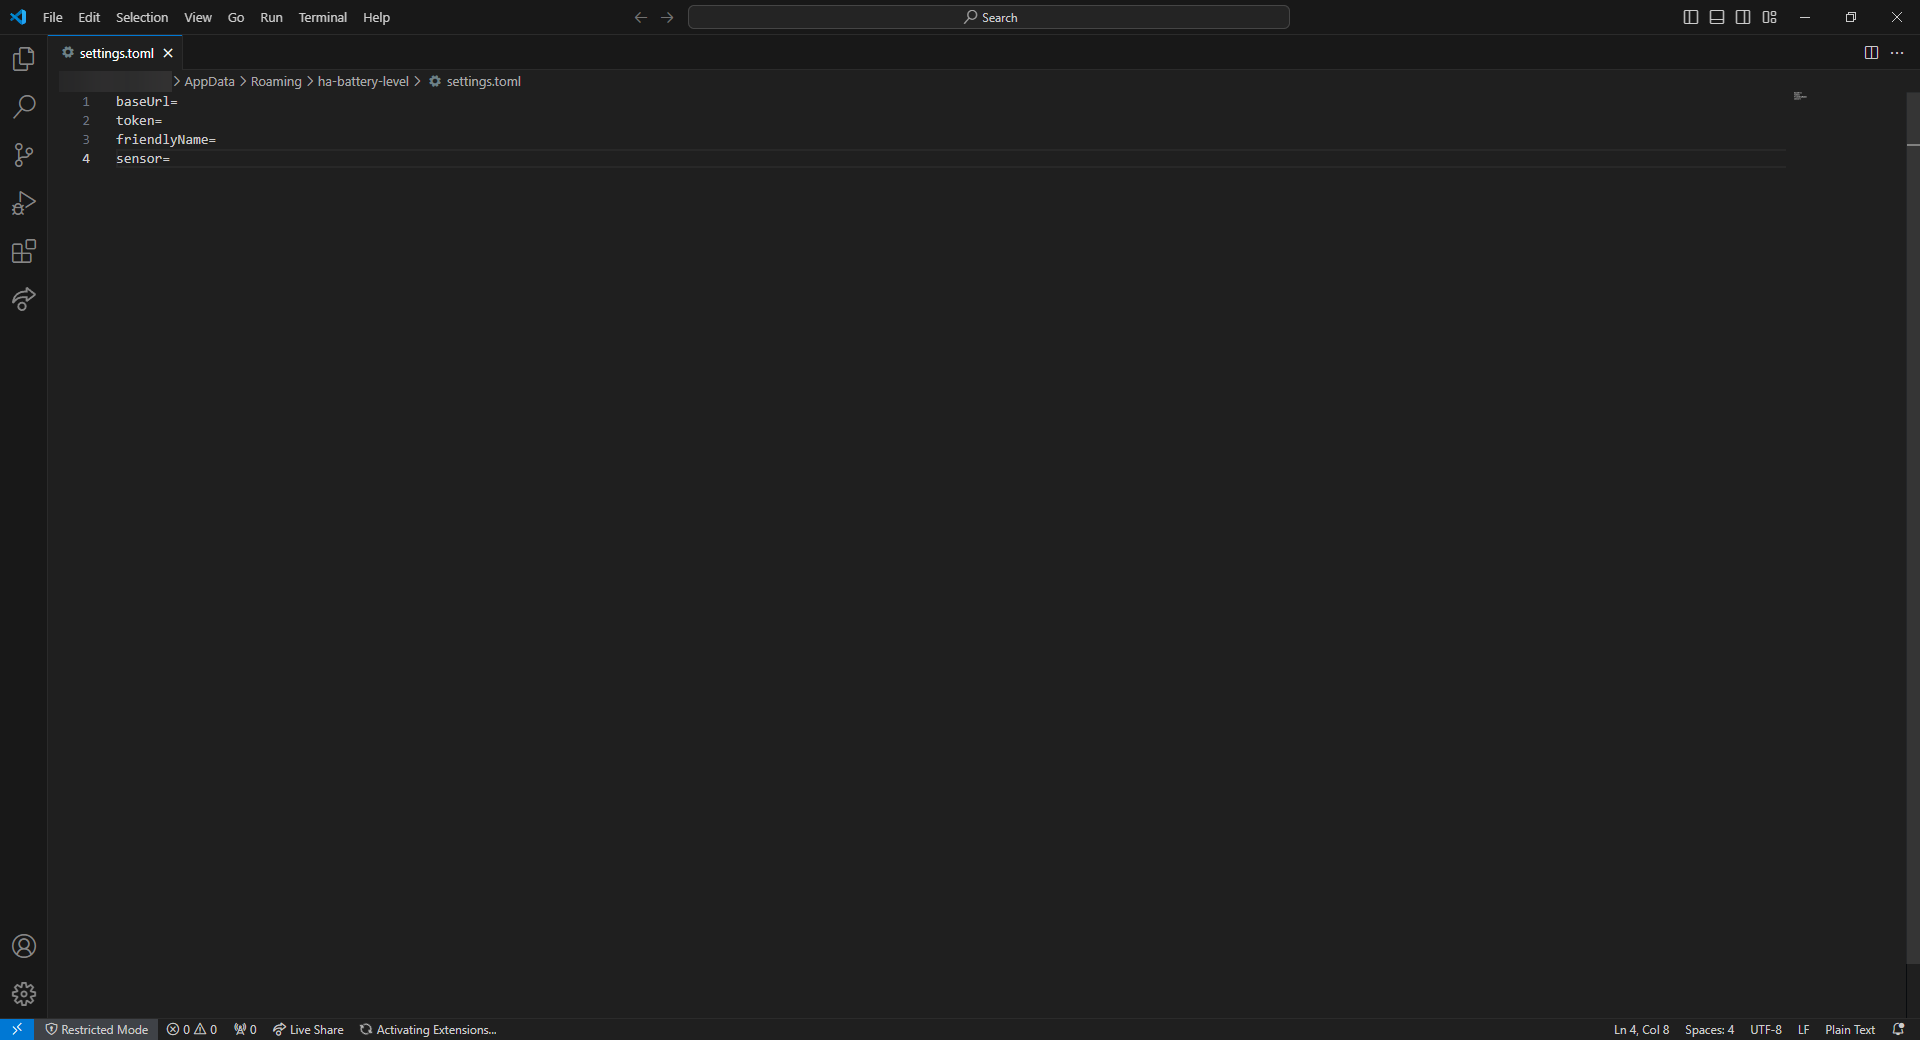
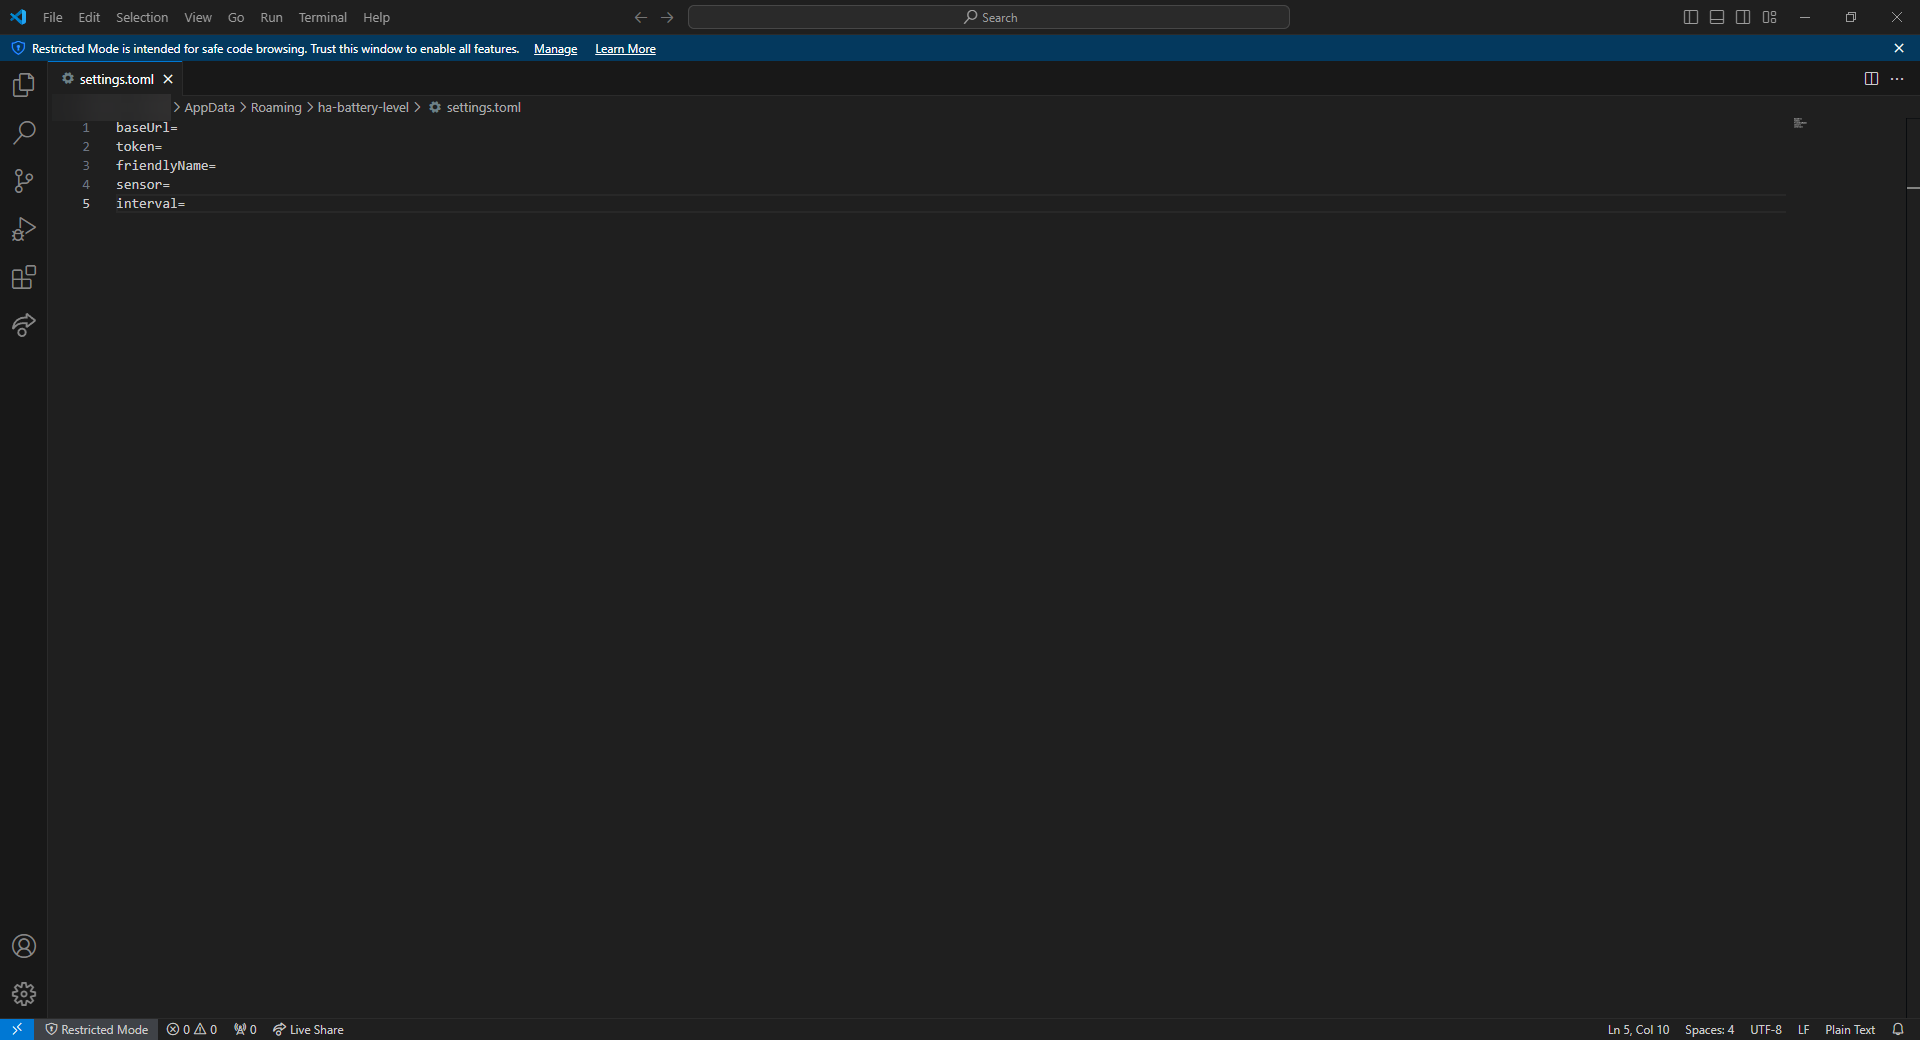
Add interval setting

Changed region(s): [[0.0, 0.0, 1.0, 0.3077], [0.1875, 0.9846, 0.25, 1.0], [0.8438, 0.9846, 0.875, 1.0]]

diff --git a/main.go b/main.go
@@ -59,7 +59,7 @@ func getUserConfig() (map[string]interface{}, error) {
 		if err != nil {
 			return nil, err
 		}
-		err = ioutil.WriteFile(configPath, []byte("baseUrl=\ntoken=\nfriendlyName=\nsensor="), 0644)
+		err = ioutil.WriteFile(configPath, []byte("baseUrl=\ntoken=\nfriendlyName=\nsensor=\ninterval="), 0644)
 		if err != nil {
 			return nil, err
 		}
@@ -198,6 +198,19 @@ func main() {
 			}
 			panic(err)
 		}
+		if userConfig["interval"] == nil {
+			userConfig["interval"] = 5
+		} else {
+			interval := userConfig["interval"].(int)
+			if interval < 5 {
+				if displayMessage == true {
+					dialog.Message("Interval must be at least 5 seconds").Title("Error").Error()
+				}
+				panic("Interval must be at least 5 seconds")
+			}
+			userConfig["interval"] = interval
+		}
+
 		for {
 			info, err := GetBatteryInfo()
 			if err != nil {
@@ -217,7 +230,7 @@ func main() {
 				if info.IsCharging {
 					icon = "mdi:battery-charging"
 				}
-				if info.Level != 100 {
+				if info.Level >= 95 {
 					icon = fmt.Sprintf("%s-%s", icon, strconv.Itoa(int(math.Round(info.Level/10)*10)))
 				}
 				payload := fmt.Sprintf("{\"state\": \"%f\", \"attributes\": {\"unit_of_measurement\": \"%%\", \"friendly_name\": \"%s\", \"icon\": \"%s\"}}", info.Level, friendlyName, icon)
@@ -244,7 +257,7 @@ func main() {
 				}
 				fmt.Println("Error: Config not found")
 			}
-			time.Sleep(5 * time.Second)
+			time.Sleep(time.Duration(userConfig["interval"].(int)) * time.Second)
 		}
 	}()
 
